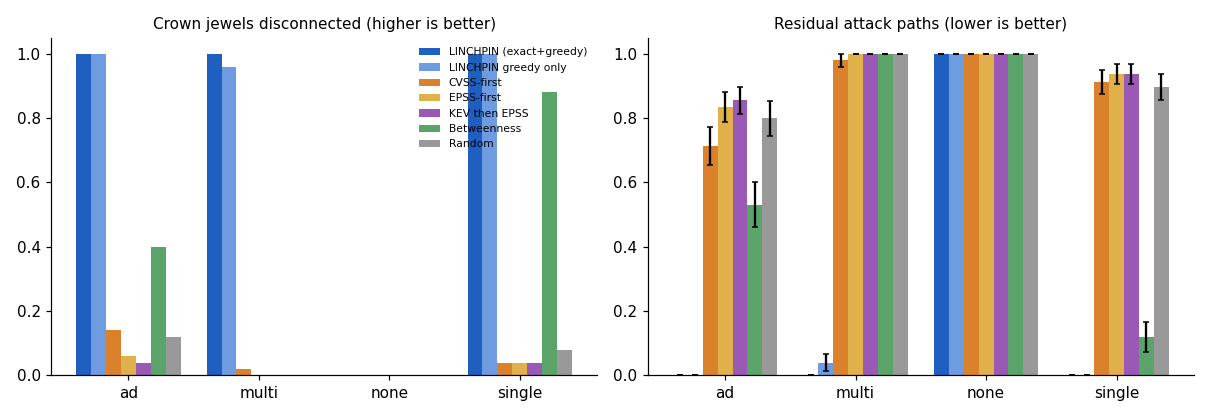
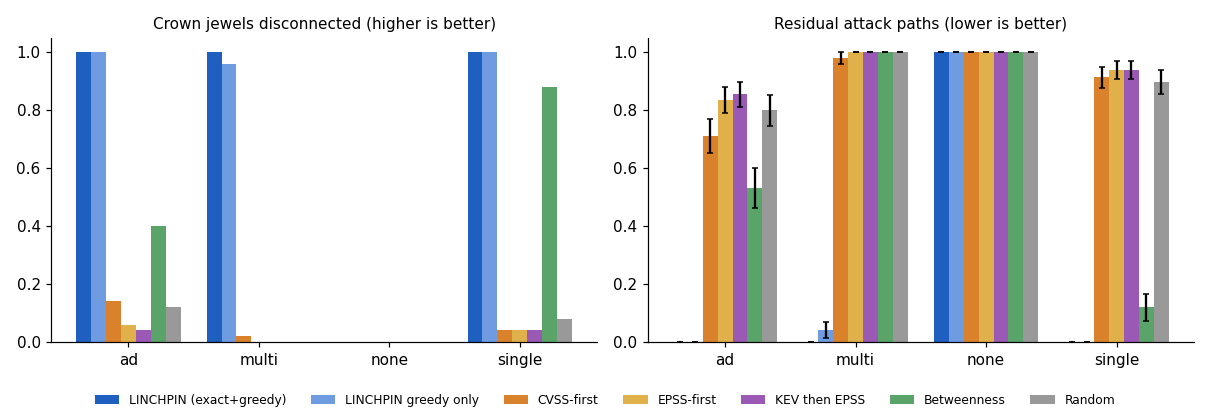
fix(bench): legend placement; --replot option

diff --git a/benchmarks/run_benchmark.py b/benchmarks/run_benchmark.py
@@ -76,8 +76,9 @@ def plot(summ: dict, out: Path) -> None:
         ax.set_title(t, fontsize=10)
         ax.set_ylim(0, 1.05)
         ax.spines[["top", "right"]].set_visible(False)
-    axes[0].legend(fontsize=7, frameon=False, loc="upper right")
-    fig.tight_layout()
+    handles, labels = axes[0].get_legend_handles_labels()
+    fig.legend(handles, labels, fontsize=8, frameon=False, loc="lower center", ncol=len(STRATEGIES))
+    fig.tight_layout(rect=(0, 0.08, 1, 1))
     fig.savefig(out / "strategies.png", dpi=110)
     plt.close(fig)
 
@@ -89,9 +90,13 @@ def main(argv=None) -> int:
     ap.add_argument("--k", type=int, default=100)
     ap.add_argument("--families", default=",".join(FAMILIES))
     ap.add_argument("--out", default="benchmarks/results")
+    ap.add_argument("--replot", action="store_true", help="only redraw figures from summary.json")
     a = ap.parse_args(argv)
     out = Path(a.out)
     out.mkdir(parents=True, exist_ok=True)
+    if a.replot:
+        plot(json.loads((out / "summary.json").read_text(encoding="utf-8"))["families"], out)
+        return 0
     rows = []
     t0 = time.time()
     for fam in a.families.split(","):
